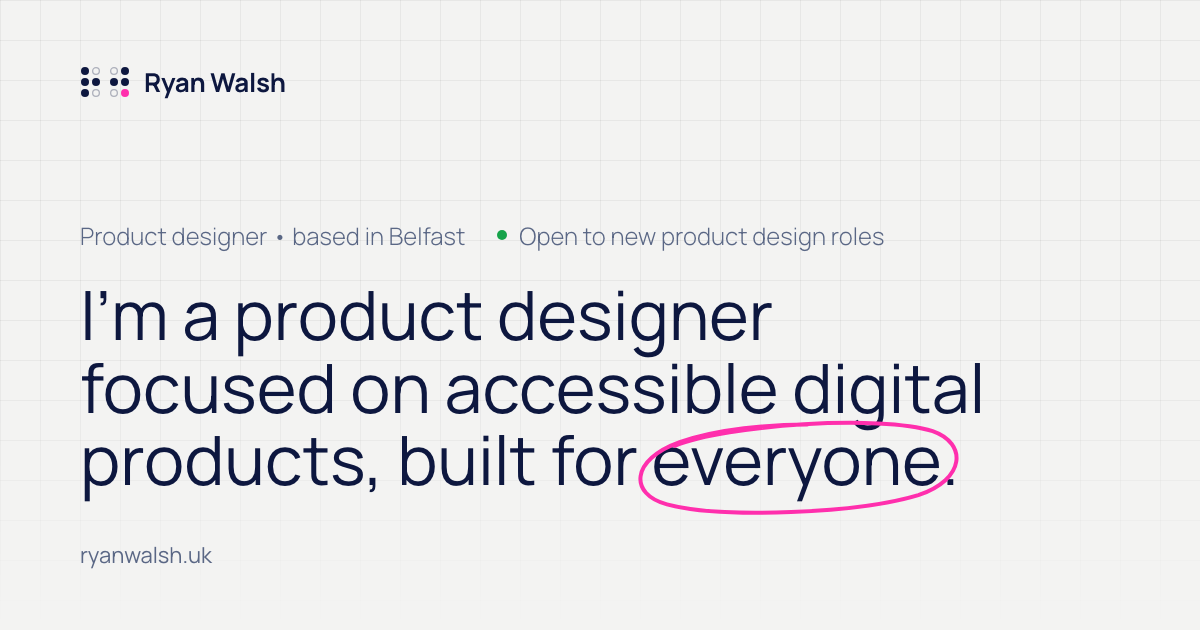
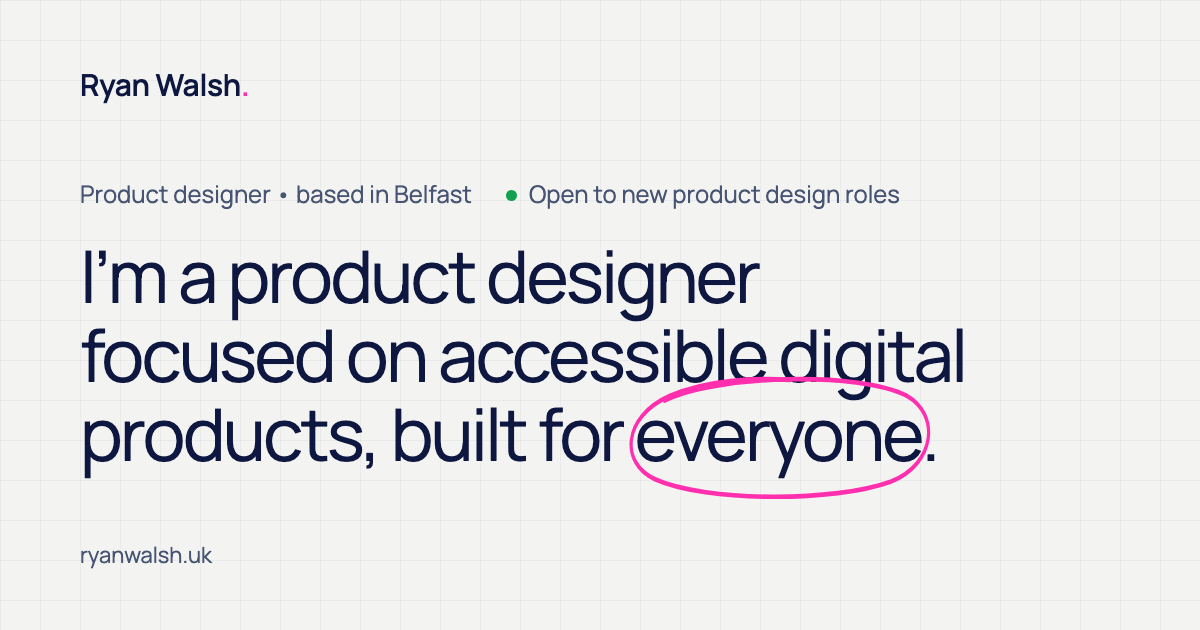
Share images for each case study (#63)
- One 1200x630 link preview per case study
- Home share card uses the Ryan Walsh. wordmark instead of the old braille mark

diff --git a/tapsos.html b/tapsos.html
@@ -11,7 +11,7 @@
   <meta property="og:title" content="TapSOS, Ryan Walsh">
   <meta property="og:description" content="Designing a silent way to reach emergency services: TapSOS, a free, accredited app that lets people contact 999 in the UK without speaking.">
   <meta property="og:url" content="https://ryanwalsh.uk/tapsos">
-  <meta property="og:image" content="https://ryanwalsh.uk/images/share-card.png?v=2">
+  <meta property="og:image" content="https://ryanwalsh.uk/images/share/tapsos.png?v=1">
   <meta name="twitter:card" content="summary_large_image">
 
   <link rel="icon" href="favicon.svg?v=3" type="image/svg+xml">

diff --git a/portfolio-site.html b/portfolio-site.html
@@ -11,7 +11,7 @@
   <meta property="og:title" content="Designing and building my portfolio with AI, from template to live site">
   <meta property="og:description" content="A case study by Ryan Walsh, product designer in Belfast.">
   <meta property="og:url" content="https://ryanwalsh.uk/portfolio-site">
-  <meta property="og:image" content="https://ryanwalsh.uk/images/share-card.png?v=2">
+  <meta property="og:image" content="https://ryanwalsh.uk/images/share/portfolio.png?v=1">
   <meta name="twitter:card" content="summary_large_image">
 
   <link rel="icon" href="favicon.svg?v=3" type="image/svg+xml">

diff --git a/medicool.html b/medicool.html
@@ -11,7 +11,7 @@
   <meta property="og:title" content="Branding and designing the app for Medicool, a smart medication case">
   <meta property="og:description" content="A case study by Ryan Walsh, product designer in Belfast.">
   <meta property="og:url" content="https://ryanwalsh.uk/medicool">
-  <meta property="og:image" content="https://ryanwalsh.uk/images/share-card.png?v=2">
+  <meta property="og:image" content="https://ryanwalsh.uk/images/share/medicool.png?v=1">
   <meta name="twitter:card" content="summary_large_image">
 
   <link rel="icon" href="favicon.svg?v=3" type="image/svg+xml">

diff --git a/orbit.html b/orbit.html
@@ -11,7 +11,7 @@
   <meta property="og:title" content="orbit: a heads-up display app for neurodiverse drivers">
   <meta property="og:description" content="A case study by Ryan Walsh, product designer in Belfast.">
   <meta property="og:url" content="https://ryanwalsh.uk/orbit">
-  <meta property="og:image" content="https://ryanwalsh.uk/images/share-card.png?v=2">
+  <meta property="og:image" content="https://ryanwalsh.uk/images/share/orbit.png?v=1">
   <meta name="twitter:card" content="summary_large_image">
 
   <link rel="icon" href="favicon.svg?v=3" type="image/svg+xml">

diff --git a/index.html b/index.html
@@ -11,7 +11,7 @@
   <meta property="og:title" content="Ryan Walsh, Product Designer (UX/UI)">
   <meta property="og:description" content="Accessible, end-to-end product design from Belfast.">
   <meta property="og:url" content="https://ryanwalsh.uk/">
-  <meta property="og:image" content="https://ryanwalsh.uk/images/share-card.png?v=2">
+  <meta property="og:image" content="https://ryanwalsh.uk/images/share-card.png?v=3">
   <meta name="twitter:card" content="summary_large_image">
 
   <link rel="icon" href="favicon.svg?v=3" type="image/svg+xml">
